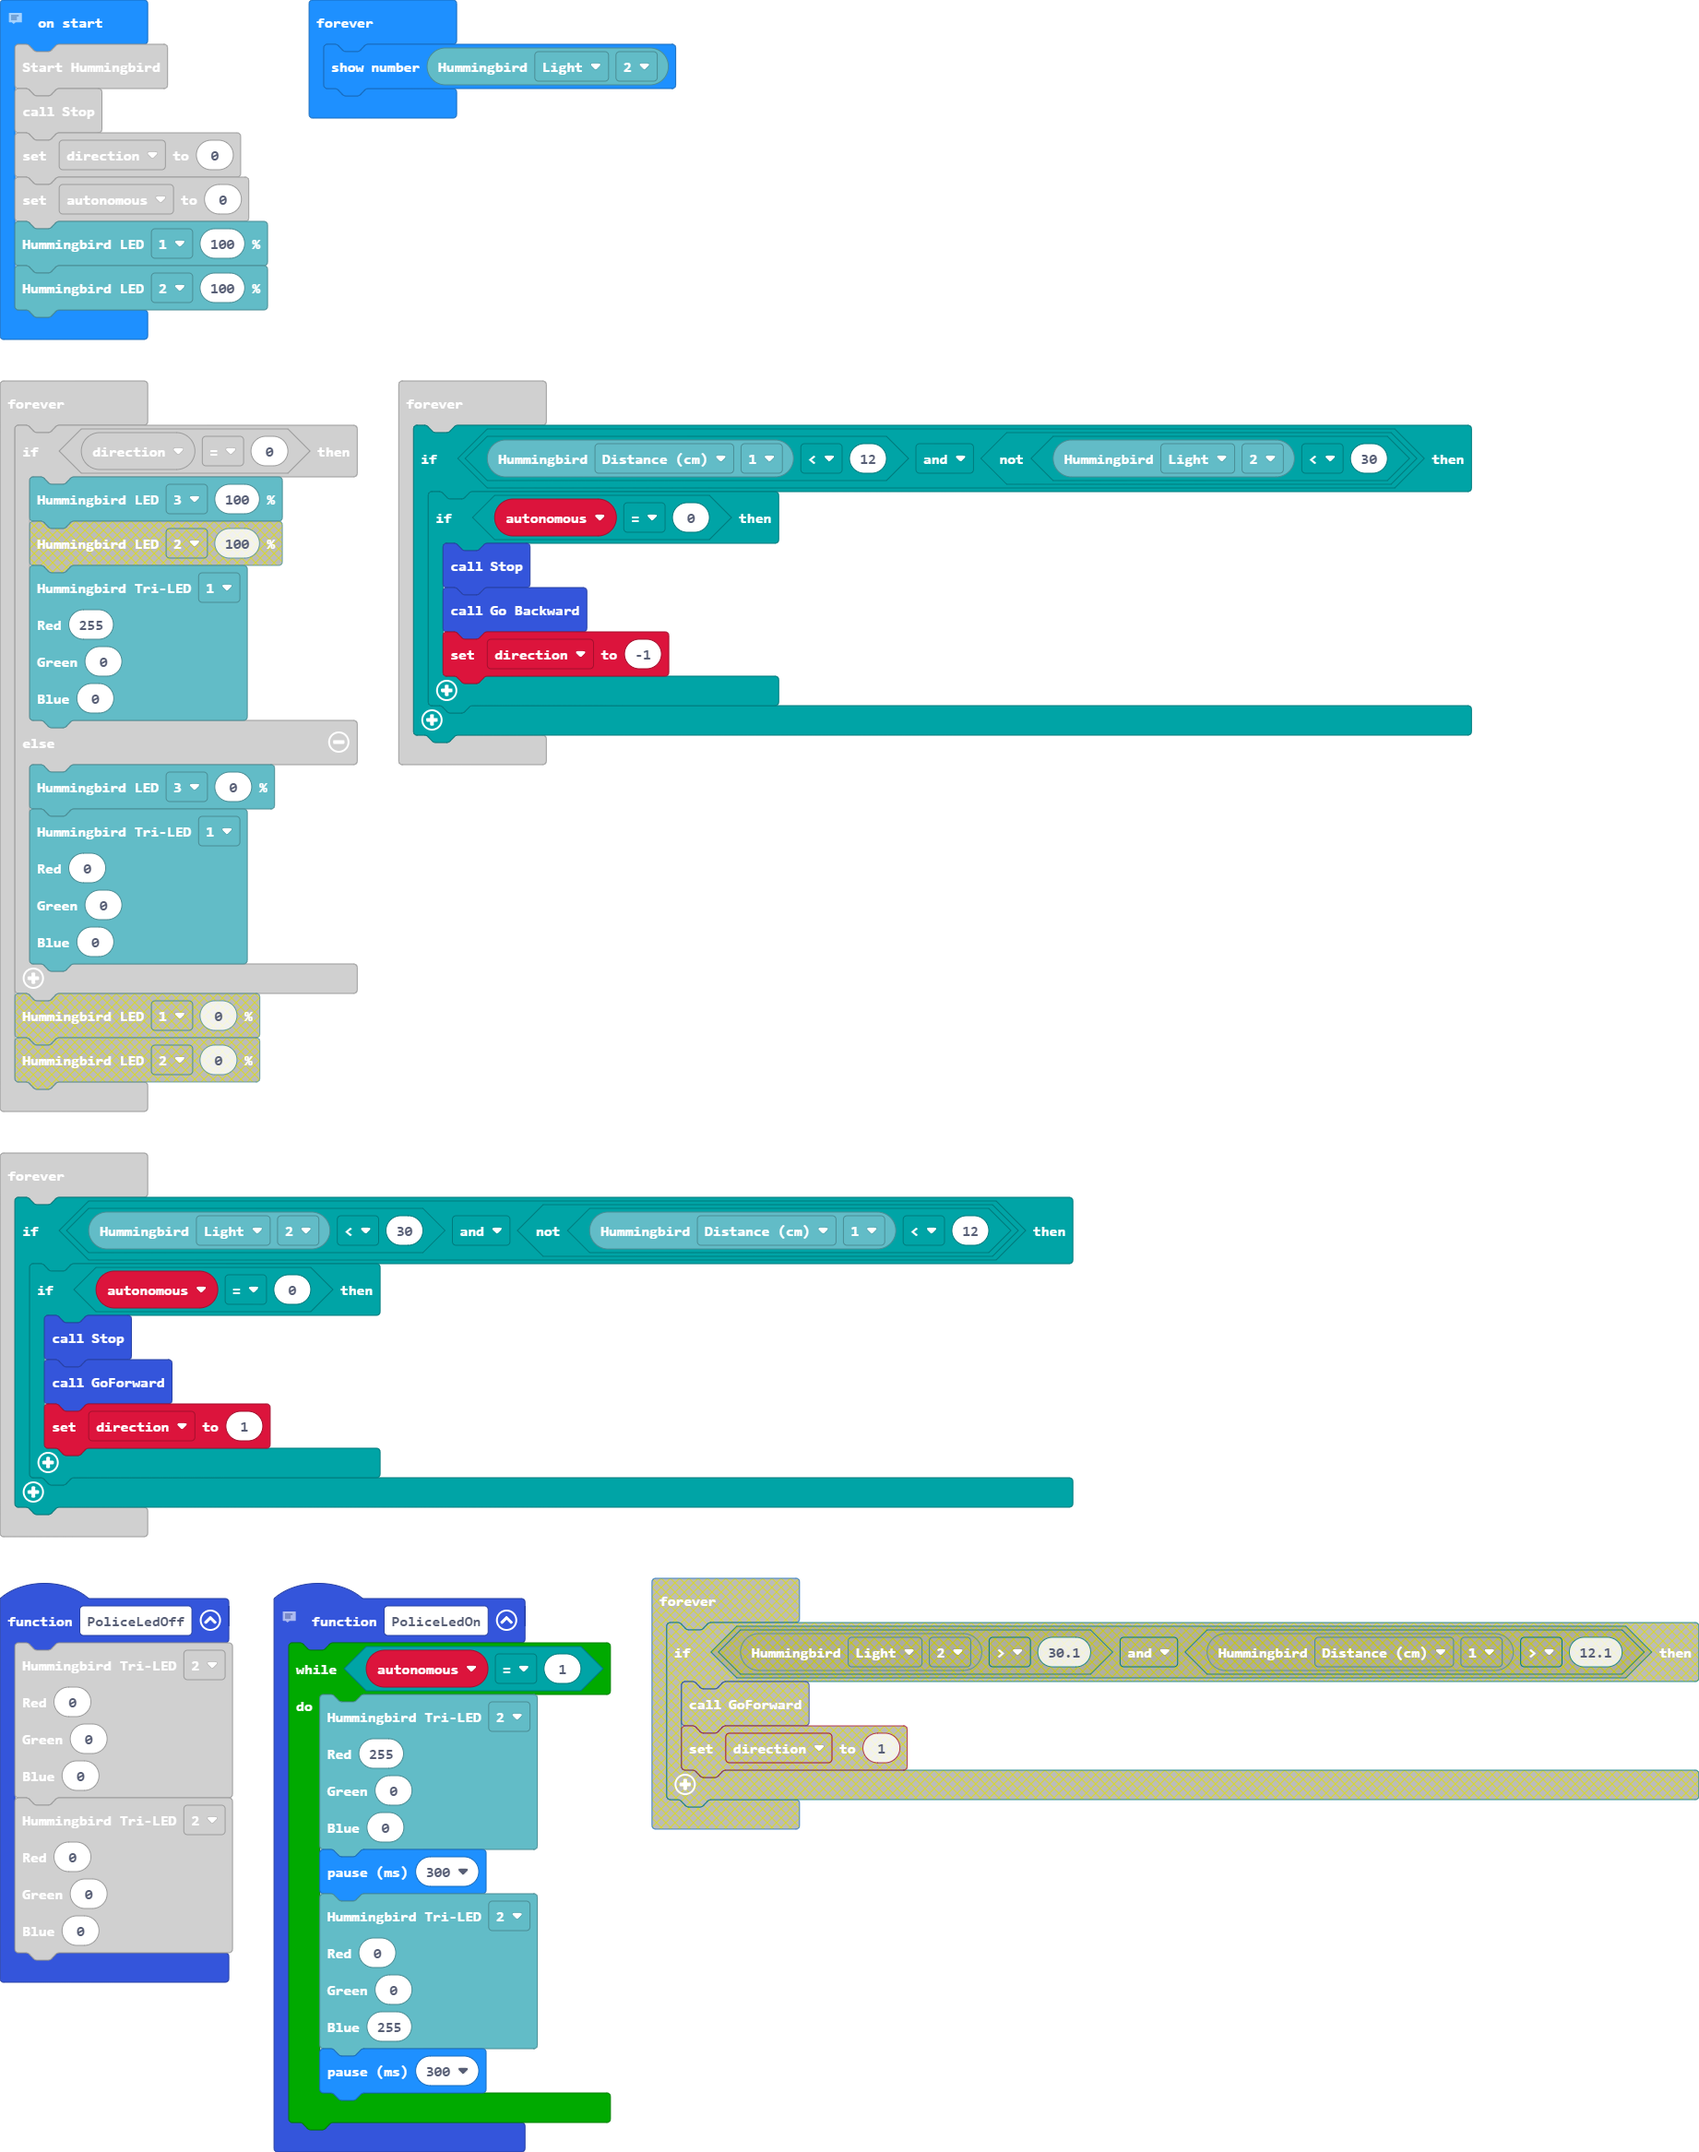
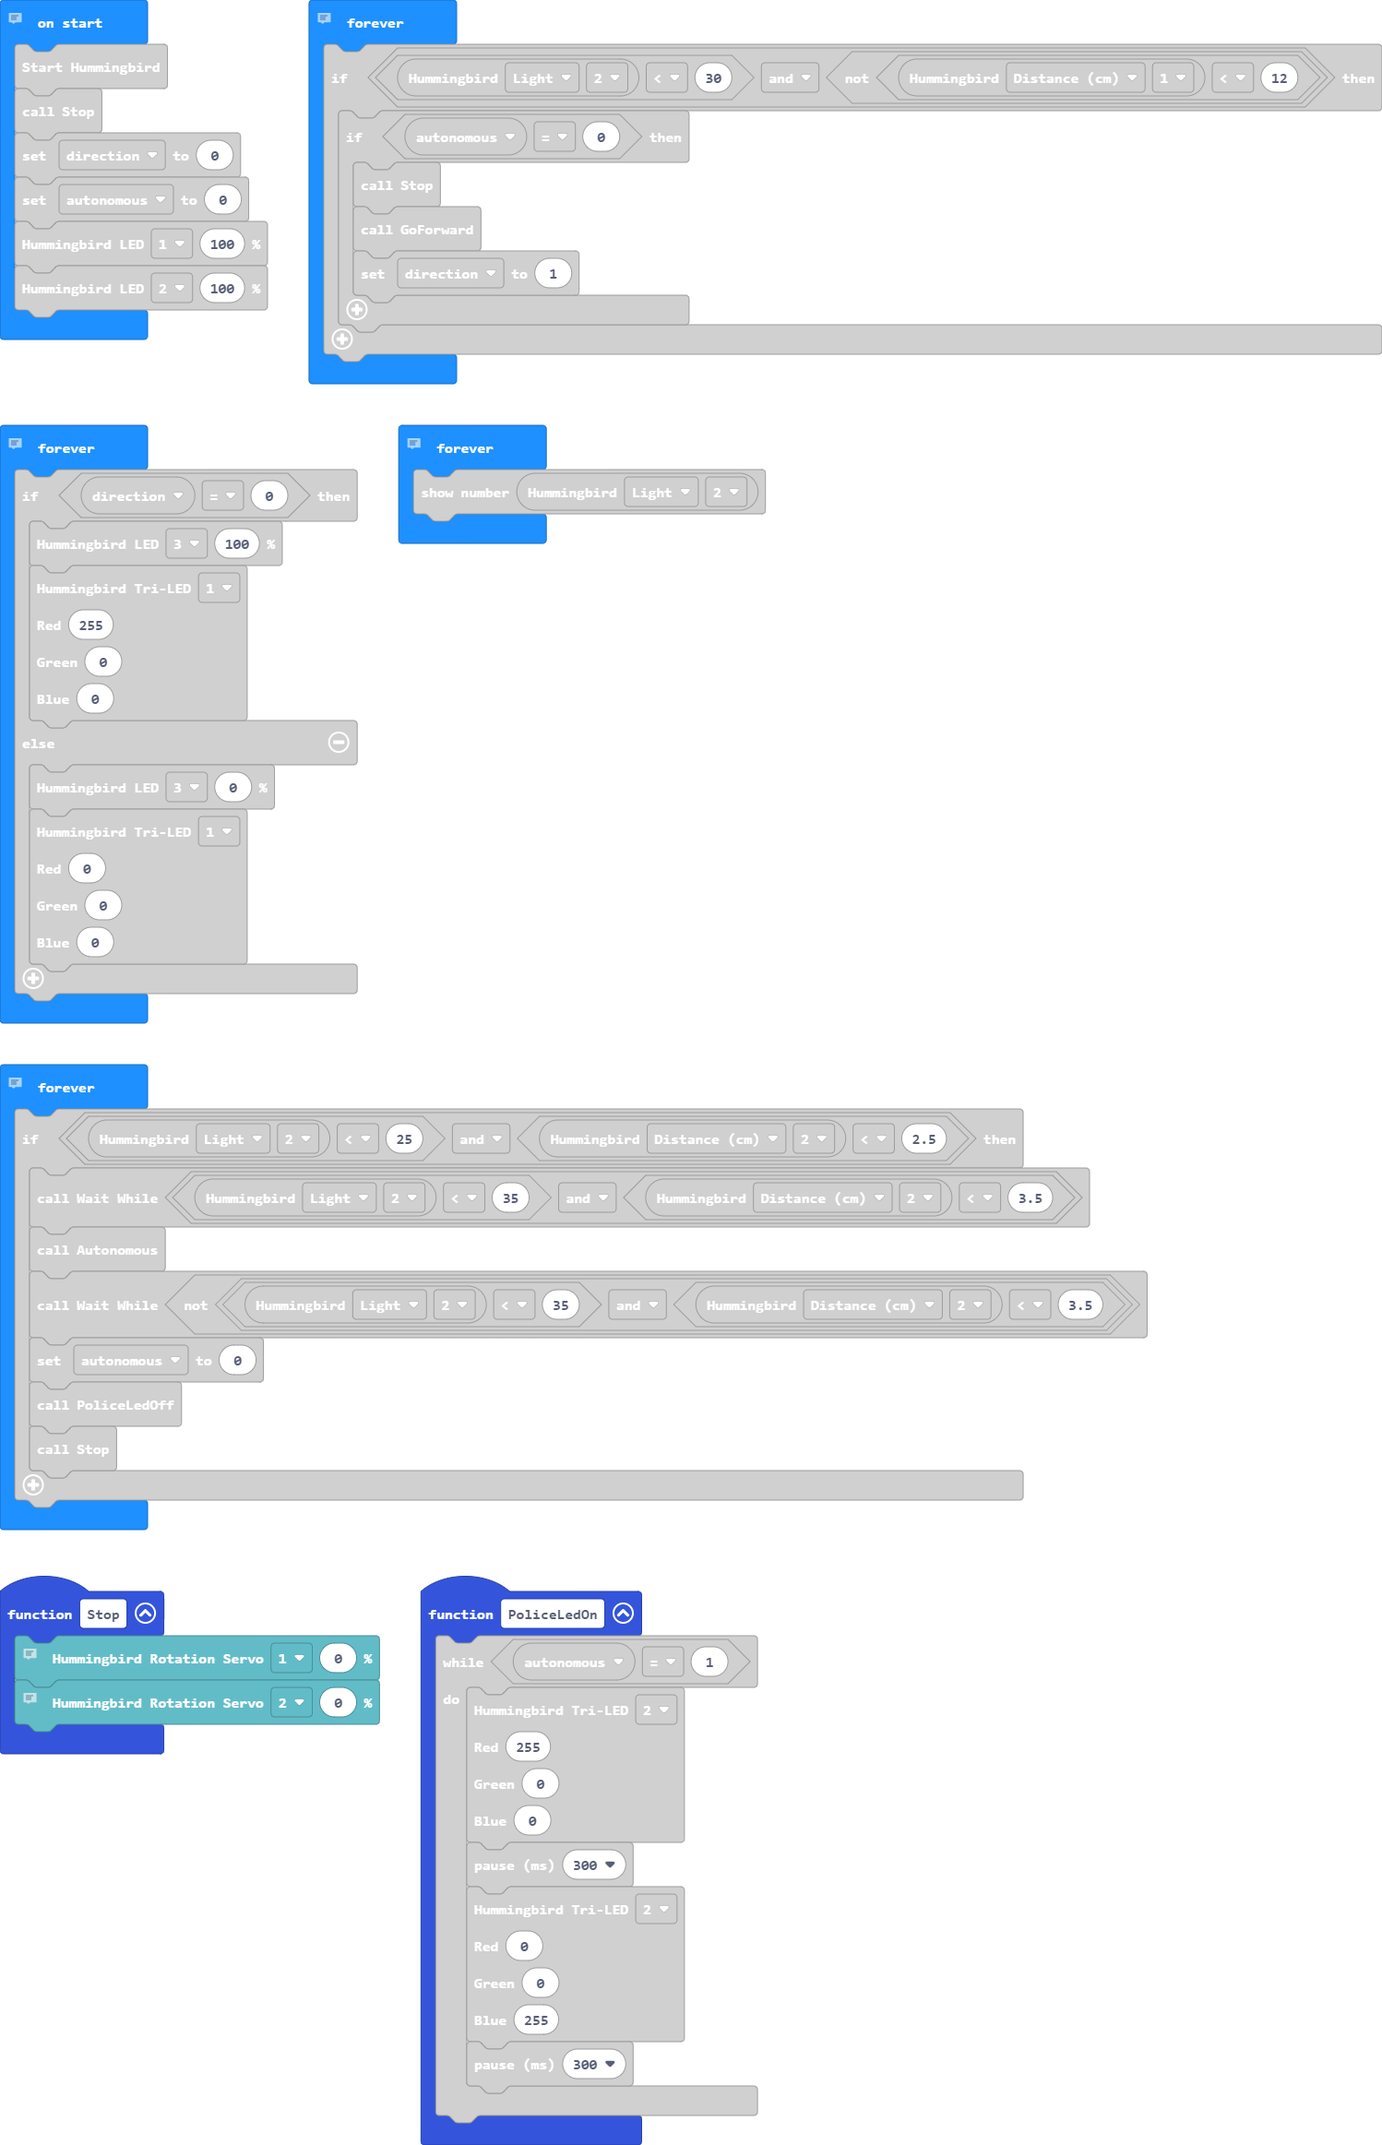
Started arranging

diff --git a/main.ts b/main.ts
@@ -17,11 +17,6 @@ function Wait_While (boolean: boolean) {
     	
     }
 }
-// 1: yellow
-// 2: yellow
-// 3: red
-// 1: tri red
-// 2: tri red/blue
 function PoliceLedOn () {
     while (autonomous == 1) {
         hummingbird.setTriLED(
@@ -83,14 +78,24 @@ function Go_Backward () {
     hummingbird.setRotationServo(FourPort.Two, 55)
 }
 function Stop () {
+    // Right Wheel
     hummingbird.setRotationServo(FourPort.One, 0)
+    // Left Wheel
     hummingbird.setRotationServo(FourPort.Two, 0)
 }
-// 1: yellow
-// 2: yellow
-// 3: red
-// 1: tri red
-// 2: tri red/blue
+// direction: -1: backward, 0: stop, 1: forward
+// LED 1: left front yellow light
+// LED 2: right front yellow light
+// .................................................................................
+// The LEDs are:
+// 1: left front yellow light
+// 2: right front yellow light
+// 3: left back red light
+// 1: right back red light
+// 2: red/blue tri-led at the top of the car(police lights)
+// .................................................................................
+// The sensors are:
+// 
 let autonomous = 0
 hummingbird.startHummingbird()
 Stop()
@@ -98,20 +103,17 @@ let direction = 0
 autonomous = 0
 hummingbird.setLED(ThreePort.One, 100)
 hummingbird.setLED(ThreePort.Two, 100)
+// If the 
 basic.forever(function () {
-    basic.showNumber(hummingbird.getSensor(SensorType.Light, ThreePort.Two))
-})
-// Autonomous
-basic.forever(function () {
-    if (hummingbird.getSensor(SensorType.Light, ThreePort.Two) < 25 && hummingbird.getSensor(SensorType.Distance, ThreePort.Two) < 2.5) {
-        Wait_While(hummingbird.getSensor(SensorType.Light, ThreePort.Two) < 35 && hummingbird.getSensor(SensorType.Distance, ThreePort.Two) < 3.5)
-        Autonomous()
-        Wait_While(!(hummingbird.getSensor(SensorType.Light, ThreePort.Two) < 35 && hummingbird.getSensor(SensorType.Distance, ThreePort.Two) < 3.5))
-        autonomous = 0
-        PoliceLedOff()
-        Stop()
+    if (hummingbird.getSensor(SensorType.Light, ThreePort.Two) < 30 && !(hummingbird.getSensor(SensorType.Distance, ThreePort.One) < 12)) {
+        if (autonomous == 0) {
+            Stop()
+            GoForward()
+            direction = 1
+        }
     }
 })
+// If the car stops, then turn on the back red LEDs
 basic.forever(function () {
     if (direction == 0) {
         hummingbird.setLED(ThreePort.Three, 100)
@@ -131,21 +133,28 @@ basic.forever(function () {
         )
     }
 })
+// temporary
+basic.forever(function () {
+    basic.showNumber(hummingbird.getSensor(SensorType.Light, ThreePort.Two))
+})
+// Autonomous code:
+// Will run if both sensors detect something close to them
+basic.forever(function () {
+    if (hummingbird.getSensor(SensorType.Light, ThreePort.Two) < 25 && hummingbird.getSensor(SensorType.Distance, ThreePort.Two) < 2.5) {
+        Wait_While(hummingbird.getSensor(SensorType.Light, ThreePort.Two) < 35 && hummingbird.getSensor(SensorType.Distance, ThreePort.Two) < 3.5)
+        Autonomous()
+        Wait_While(!(hummingbird.getSensor(SensorType.Light, ThreePort.Two) < 35 && hummingbird.getSensor(SensorType.Distance, ThreePort.Two) < 3.5))
+        autonomous = 0
+        PoliceLedOff()
+        Stop()
+    }
+})
 basic.forever(function () {
     if (hummingbird.getSensor(SensorType.Distance, ThreePort.One) < 12 && !(hummingbird.getSensor(SensorType.Light, ThreePort.Two) < 30)) {
         if (autonomous == 0) {
             Stop()
             Go_Backward()
             direction = -1
-        }
-    }
-})
-basic.forever(function () {
-    if (hummingbird.getSensor(SensorType.Light, ThreePort.Two) < 30 && !(hummingbird.getSensor(SensorType.Distance, ThreePort.One) < 12)) {
-        if (autonomous == 0) {
-            Stop()
-            GoForward()
-            direction = 1
         }
     }
 })
